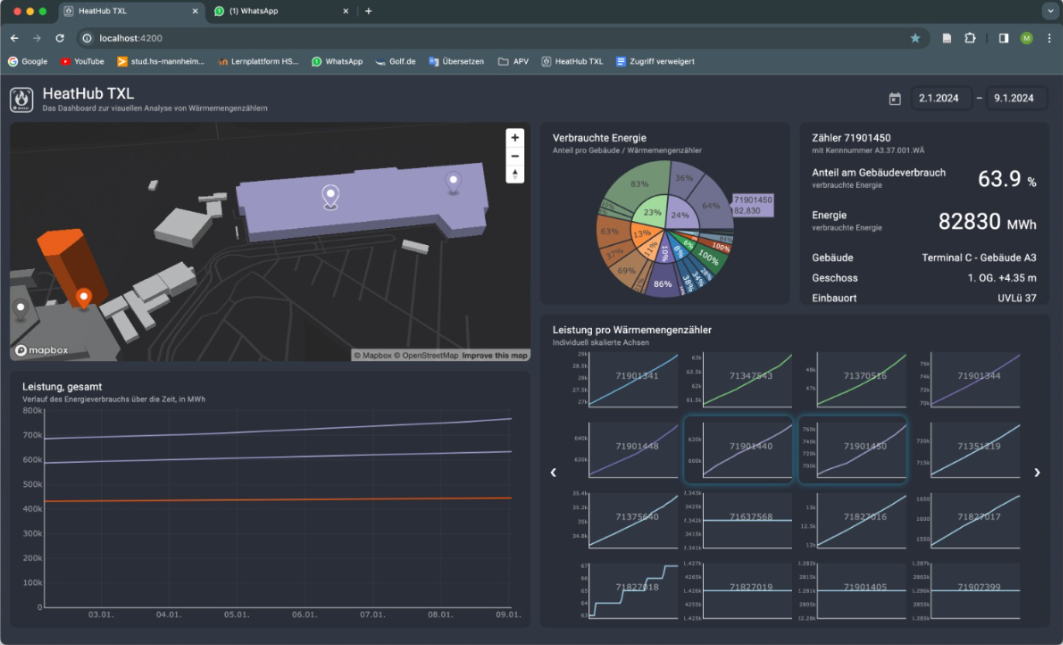
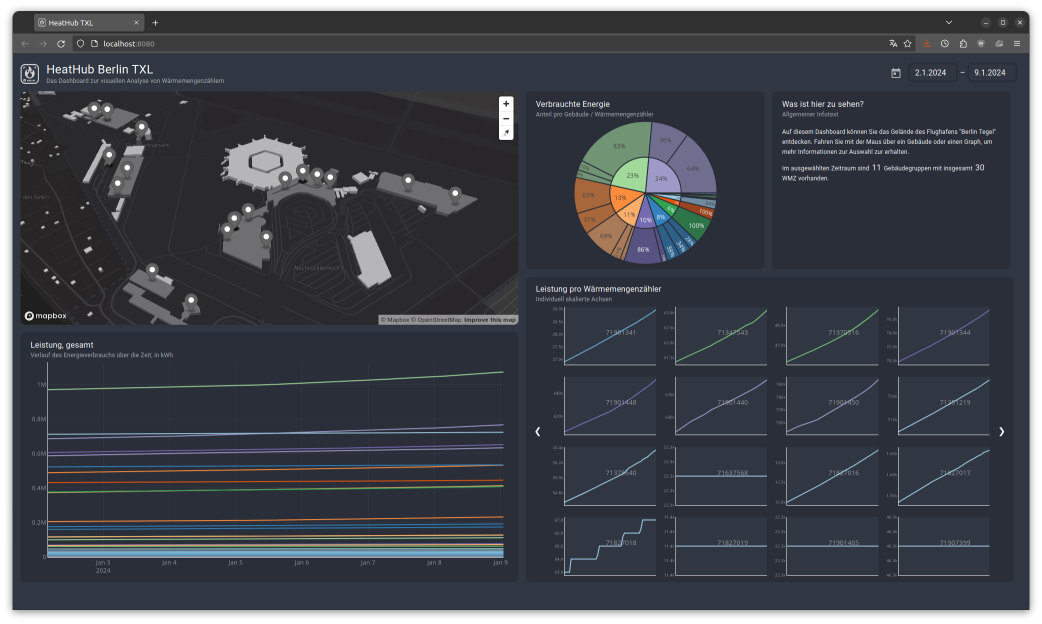
new up to date Bild1 && Bild17, smaller fixes

diff --git a/index.html b/index.html
@@ -27,16 +27,17 @@
 <p></p>
 <p>The <strong>HeatHub</strong> Dashboard features an interactive map with 3D visualization for a total of 11 buildings on the Berlin TXL site equipped with heat meters. The map allows for detailed monitoring of heat consumption values at the building level. Mini-charts provide precise information, while large visualizations offer a quick and comprehensive overview. A sunburst chart displays the average energy consumption across all buildings. This intuitive platform provides both detailed insights and a comprehensive overview of heat consumption on the Berlin TXL site.</p>
 
-<h3>Our Goals:</h3>
+<h3>Our Goals</h3>
 <p>The "HeatHub TXL" project aims for precise data capture and analysis of energy consumption and CO2 emissions at Berlin Airport TXL. By generating ESG reports, it aims to facilitate transparent communication of sustainability standards and targeted measures for controlling energy consumption. The dashboard serves not only for internal process optimization but also for external communication in the InfoCenter for the public. The overarching goal is to create comprehensive transparency and actively contribute to comprehensive ESG goals (Environmental, Social, and Governance).</p>
 
 <h3>What are heat meters?</h3>
-<p>Heat meters (HM) are devices that measure energy consumption for heating and cooling in buildings. In the context of HeatHub TXL the former Berlin-Tegel Airport (TXL), data from these meters are captured and analyzed. The collected information provides insights into heat consumption in various buildings on the premises. The data not only covers basic energy consumption patterns but also considers factors such as the energy efficiency class of buildings, weather conditions, number of employees, and building size. Through this holistic analysis, HeatHub TXL provides a transparent overview of energy consumption on the airport grounds and contributes to promoting sustainable decisions and measures for energy optimization.</p>
+<p>Heat meters (HM) are devices that measure energy consumption for heating and cooling in buildings. In the context of HeatHub TXL the former Berlin-Tegel Airport (TXL), data from these meters are captured and analyzed. The collected information provides insights into heat consumption in various buildings on the premises. The data not only covers basic energy consumption patterns but also considers factors such as the energy efficiency class of buildings, weather conditions, number of employees, and building size. Through this analysis, HeatHub TXL provides a transparent overview of energy consumption on the airport grounds and contributes to promoting sustainable decisions and measures for energy optimization.</p>
 
 <h3>Existing Data</h3>
 <p>Heat meters are instruments that capture the heat consumption in heating circuits. These measuring devices enable precise consumption recording and facilitate data collection, thereby reducing the effort for reading and evaluation.</p>
 
 <div>Calculation of Heat Quantity</div>
+
 <p>Heat quantity is calculated from the variables "flow rate" and "temperature difference" according to the following formula:</p>
 <p><center><strong>Heat Quantity [kWh] = Heat Coefficient (k) * Volume [m³] * Temperature Difference [°C].</strong></center></p>
 
@@ -46,7 +47,7 @@
     <li>Return Temperature [°C]: The temperature of the heating medium as it returns to the heat generator.</li>
     <li>Flow Rate [m³/h]: The amount of heating medium flowing through the heating circuit per hour.</li>
     <li>Power [kW]: The instantaneous power of heat consumption in kilowatts (kW).</li>
-    <li>Volume [kW]: The volume of the heating medium consumed during a specific period, often measured in kilowatt-hours (kWh).</li>
+    <li>Volume [m³]: The volume of the heating medium consumed during a specific period.</li>
     <li>Energy [kWh]: The consumed heat energy, often cumulated over a specific period, measured in kilowatt-hours (kWh).</li>
 </ul>
 <p></p>
@@ -73,7 +74,7 @@
     <figcaption><strong>FIGURE 2:</strong> The illustration provides an overview of the workshop progression, showcasing the evolution of visualization from simple to complex prototypes.</figcaption>
 </div>
 <p></p>
-<h4>Description of Visualizations:</h4>
+<h4>Description of Visualizations</h4>
 <p>At the outset, the application presents the user with a clear choropleth map of the former Berlin-Tegel Airport (TXL). This map is divided into four main areas, with each area representing a specific zone or segment of the premises.</p>
 
 <p>The subdivision allows users to examine the different parts of the airport more closely. In this view, each of the four areas is color-coded to indicate the current energy consumption. For instance, an area is depicted in green if it has low energy consumption and in red if the consumption is high. This creates a sort of heatmap within the visualization.</p>
@@ -199,12 +200,12 @@
 
 
 <p></p>
-<h3>Summary of the Initial Idea and Challenges:</h3>
+<h3>Summary of the Initial Idea and Challenges</h3>
 <p>The visualization of the former Berlin-Tegel Airport (TXL) provides a detailed insight into energy consumption on the premises. The starting point is a choropleth map dividing the area into four main zones, each representing a specific zone with color coding indicating the current energy consumption, creating a heatmap effect. By selecting or zooming in, buildings become visible, also color-coded to illustrate energy consumption. In addition, charts provide information on factors such as energy efficiency class, weather, employee count, and building size in relation to energy consumption.</p>
 <p>The visualization allows for a comprehensive representation of energy consumption at the airport, considering various influencing factors. The zoom function enables users to dive into the data and analyze it at different detail levels, particularly beneficial for experienced and trained users. However, there are some challenges to address: the classified "complex" visualization may limit usability for beginners and requires training. Additionally, security measures should be implemented as the data is not publicly accessible. Despite these challenges, the visualization offers a valuable opportunity to analyze energy consumption at Berlin-Tegel Airport and consider various influencing factors. Adjusting complexity and access restrictions is crucial to maximize user-friendliness and overall utility.</p>
 
 <p></p>
-<h3>Why a Map Dashboard is the Ideal Choice!</h3>
+<h3>Why a Map Dashboard is the Ideal Choice</h3>
 <p><strong>Spatial Context:</strong></p><p> A dashboard with a map is particularly effective in emphasizing spatial context. In our case, analyzing heat meter data on the former Berlin-Tegel Airport (TXL) premises, it is crucial to depict energy consumption in relation to the spatial distribution of buildings. A map visualization allows users to specifically view areas or buildings and understand energy consumption on a geographical level.</p>
 <p><strong>Interactive Exploration:</strong></p><p> A dashboard provides the opportunity for interactive exploration of data. Users can zoom into the map, select specific areas, and retrieve detailed information. This interactivity allows for flexible and individualized analysis, giving users control over their exploration.</p>
 <p><strong>Comprehensive Overview:</strong></p><p> With a map dashboard, various data and influencing factors can be simultaneously displayed. This provides a comprehensive overview of energy consumption on the airport premises. Instead of a linear narrative structure, users have the opportunity to understand the relationship between different factors and delve deeper into the analysis if they wish.</p>
@@ -216,7 +217,7 @@
 <h4>What is Figma?</h4>
 <p>Figma is a collaborative online design tool that allows teams to work together on the creation of graphics, user interfaces, and prototypes. It provides features for design, real-time editing, commenting, and prototyping. This makes it particularly effective for designing digital products and collaborating in distributed teams. For us, Figma has proven to be an indispensable tool for design exploration, and in this context, we now look at the individual process stages in which we have used it. The focus is on the reasons for changes, why certain aspects remained unchanged, and the advantages and disadvantages of specific features.</p>
 
-<h4>The first Ideas:</h4>
+<h4>First Ideas</h4>
 <p>The initial considerations regarding the representation of features led to two main options:</p>
 
 <p>1. Navbar with Map View as the Homepage</p>
@@ -297,7 +298,7 @@
     <figcaption><strong>FIGURE 17:</strong> In this illustration, the final product is presented.</figcaption>
 </figure>
     
-<h4>Info Button:</h4>
+<h4>Info Button</h4>
 <p>By clicking on the logo, an info field opens, providing general information on heat meters. This info field serves as a quick source for basic insights into the topic, allowing users to quickly educate themselves on heat meters.</p>
 <center>
     <div id="video-container">
@@ -307,7 +308,7 @@
     </div>
 </center>
     
-<h4>Info Field:</h4>
+<h4>Info Field</h4>
 <p>On the top right of our dashboard is an info field. The initial state of this field presents general information on the heat meters in the buildings. However, we have designed it to adapt its text according to the selection, providing additional information to meet the users' needs. This dynamic adjustment allows our users to delve deeper into the subject and receive specific details relevant to their individual selection.</p>
 <center>
     <div id="video-container">
@@ -317,7 +318,7 @@
     </div>
 </center>
     
-<h4>Map:</h4>
+<h4>Map</h4>
 <p>Our map view offers a comprehensive overview of the entire Berlin TXL premises. With this feature, you have the opportunity to explore the premises. in its entirety while selecting and deselecting individual buildings or heat meters as needed. The map view provides an interactive experience that allows an effortlessly navigation.</p>
 <center>
     <div id="video-container">
@@ -327,7 +328,7 @@
     </div>
 </center>
     
-<h4>Sunburst Chart:</h4>
+<h4>Sunburst Chart</h4>
 <p>In our view, the Sunburst Chart was the best way to illustrate the consumption of individual buildings and simultaneously show how much energy the respective heat meters in these buildings consume. Through the radial arrangement of the Sunburst Chart, we not only gain an overview of total consumption but also detailed insights into the hierarchy of consumption data. Each ring represents a level of consumption, ranging from total consumption figures to the specific consumption values of individual heat meters in the respective buildings. This hierarchical representation enables us to identify patterns and trends at a glance and identify relationships between the consumption values of buildings and individual heat meters. In this way, we can make informed decisions to effectively optimize energy consumption and efficiently utilize resources.</p>
 <center>
     <div id="video-container">
@@ -337,7 +338,7 @@
     </div>
 </center>
     
-<h4>Line Chart & Small Multiples:</h4>
+<h4>Line Chart & Small Multiples</h4>
     
 <p>Line charts are a proven tool for representing data over time. They show trends and patterns in a clear and easily understandable manner. But what are Small Multiples? In our context the Small Multiples display all heat meters in a compact form, with the performance of each meter shown. This representation allows us to obtain a comprehensive overview of the entire data landscape without losing sight of the details. The Small Multiples are dynamically adjusted when a building is selected on the map. In this case, the corresponding line charts of the heat meters in this building are highlighted with a frame, supporting the analysis of the users. Through both the line chart and the Small Multiples, you have the opportunity to select and deselect heat meters as desired. This allows for a tailored analysis and targeted examination of specific data points. If no building is selected, all heat meters are displayed in the large line chart. Depending on the selection, the corresponding meters are then displayed, ensuring a flexible and customizable visualization.</p>
 
